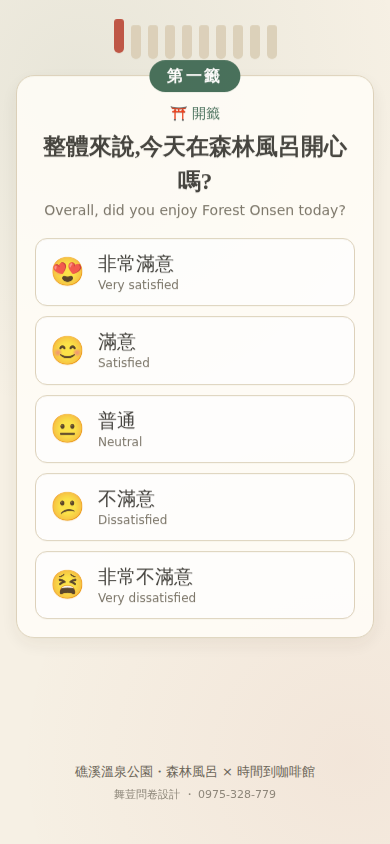
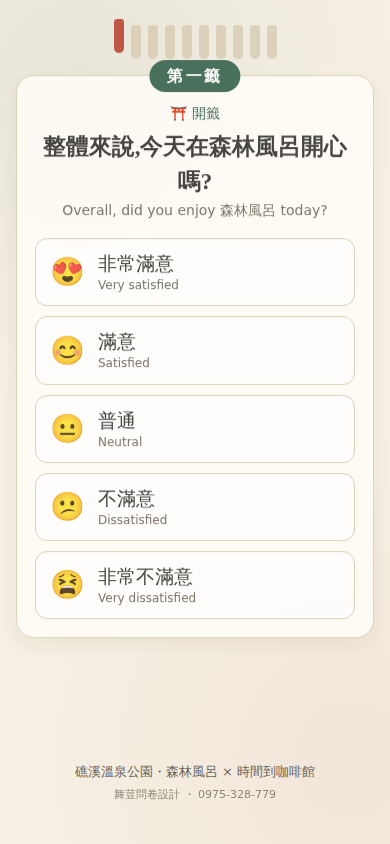
御神籤:紅色領券區只留一行英文領取說明、森林風呂不譯、美式改黑咖啡
Claude-Session: https://claude.ai/code/session_01F6yyhJXwLMGLQPqwSGyNKN

Changed region(s): [[0.1231, 0.2464, 0.8615, 0.2773]]

diff --git a/行銷/森林風呂御神籤/Index.html b/行銷/森林風呂御神籤/Index.html
@@ -157,7 +157,7 @@
   <!-- 開始 -->
   <section class="screen on" id="s-start">
     <h1>森林風呂御神籤</h1>
-    <p class="sub">泡完湯,來抽一支好運籤吧 ♨<span class="en">Forest Onsen Fortune — draw your lucky slip!</span></p>
+    <p class="sub">泡完湯,來抽一支好運籤吧 ♨<span class="en">森林風呂 Fortune — draw your lucky slip!</span></p>
     <div class="tube-box">
       <svg class="tube" id="tube" viewBox="0 0 180 230" aria-hidden="true">
         <g fill="#c9a06d" stroke="#8a6239" stroke-width="2">
@@ -202,7 +202,7 @@
       <div class="qtext" style="margin-top:14px">有什麼想跟我們說的嗎?💬<span class="en">Anything you'd like to tell us? (optional)</span></div>
       <textarea id="msg" maxlength="300" placeholder="可以不寫,直接按下面抽籤詩"></textarea>
       <div class="mail">
-        <div class="grp-label">📮 想收到森林風呂的優惠和活動消息嗎?(選填)<span class="en">Get Forest Onsen offers by email (optional)</span></div>
+        <div class="grp-label">📮 想收到森林風呂的優惠和活動消息嗎?(選填)<span class="en">Get 森林風呂 offers by email (optional)</span></div>
         <input type="email" id="email" maxlength="100" autocomplete="email" inputmode="email" placeholder="留下 email(不留也能領咖啡券)">
         <label class="agree"><input type="checkbox" id="agree"><span>我同意提供 email 收取優惠訊息(<a href="#" id="pv-toggle">個資說明</a>)</span></label>
         <div class="privacy" id="privacy" hidden>
@@ -246,7 +246,7 @@
       <div class="big">🎁 時間到咖啡館 折 30 元</div>
       <div class="coupon"><span class="no" id="cno"></span><span class="live"><span class="dot"></span><span id="clock"></span></span></div>
       <div class="big2">👉 出示此畫面到<b>【森林風呂櫃台】</b><br>索取咖啡券</div>
-      <div style="font-size:13px;opacity:.95;margin-top:4px">Show this screen at the Forest Onsen counter<br>to get your NT$30 Time Café coupon</div>
+      <div style="font-size:13px;opacity:.95;margin-top:2px">Show this screen at the counter to get your coupon</div>
     </div>
     <div class="rules">限公園一館使用・每次限用 1 張・每人每天 1 次・不兌現不找零<br>One coupon per visit · One per person per day · No cash value</div>
   </section>
@@ -342,7 +342,7 @@
     { n: "第五番", l: "泡湯吉", le: "Hot Spring Blessing", w: 1, p: "竹林風過湯煙起<br>煩惱隨水悄悄離",
       k: "會是一段愉快的旅程", ke: "It will be a delightful journey.",
       wish: "放下煩惱,願望自來", health: "筋骨舒暢", travel: "大吉,處處是好風景",
-      drink: "冰美式", de: "Iced Americano", act: "泡完湯,到咖啡館喝杯涼的" },
+      drink: "冰黑咖啡", de: "Iced Black Coffee", act: "泡完湯,到咖啡館喝杯涼的" },
     { n: "第六番", l: "森林吉", le: "Forest Blessing", w: 1, p: "綠蔭深處聞鳥語<br>心靜自然見光明",
       k: "善意的存在,是路徑的發展", ke: "Kindness shapes the path ahead.",
       wish: "耐心等待,時機將至", health: "多走走,身心舒暢", travel: "在公園散散步,會有小驚喜",
@@ -350,7 +350,7 @@
     { n: "第七番", l: "福吉", le: "Blessing of Fortune", w: 1, p: "靜水深流藏智慧<br>細細思量見花開",
       k: "靜下心來好好思考,定有成果", ke: "Calm your mind and think it through — success will come.",
       wish: "想清楚再出發,必有收穫", health: "早睡早起", travel: "計畫好再出門",
-      drink: "熱美式", de: "Hot Americano", act: "找個安靜角落,喝杯咖啡想一想" },
+      drink: "熱黑咖啡", de: "Hot Black Coffee", act: "找個安靜角落,喝杯咖啡想一想" },
     { n: "第八番", l: "光明吉", le: "Bright Blessing", w: 1, p: "心若坦蕩天自晴<br>一路光明照前程",
       k: "保持一顆坦率的心,是邁向光明人生的起點", ke: "An honest heart is the first step to a bright life.",
       wish: "真心相待,自有回應", health: "心情開朗,身體輕鬆", travel: "一路晴朗,放心出發",
@@ -384,7 +384,7 @@
     "今天的溫泉水,泡起來怎麼樣?": "How was the hot spring water today?",
     "湯區環境乾淨嗎?": "Was the bathing area clean?",
     "你從哪裡來?": "Where are you from?",
-    "整體來說,今天在森林風呂開心嗎?": "Overall, did you enjoy Forest Onsen today?",
+    "整體來說,今天在森林風呂開心嗎?": "Overall, did you enjoy 森林風呂 today?",
     "公園的風景,看起來舒服嗎?": "How do you like the park scenery?",
     "公園走道、草地乾不乾淨?": "Were the park paths and lawns clean?",
     "公園的廁所(含泡腳池旁)乾淨嗎?": "Were the park restrooms clean?",
@@ -398,7 +398,7 @@
     "園區店家的服務怎麼樣?": "How was the service at shops in the park?",
     "停車方便嗎?": "Was parking convenient?",
     "停車場好不好找?": "Was the parking lot easy to find?",
-    "會推薦朋友來森林風呂嗎?": "Would you recommend Forest Onsen to friends?",
+    "會推薦朋友來森林風呂嗎?": "Would you recommend 森林風呂 to friends?",
     "礁溪溫泉公園的經營,有讓宜蘭觀光更好嗎?": "Does the park make Yilan tourism better?",
     "有幫宜蘭的觀光形象加分嗎?": "Does it improve Yilan's tourism image?",
     "園區有呈現宜蘭在地特色(在地食材、文化設計、自然風格)嗎?": "Does the park show local Yilan features?",
@@ -409,11 +409,11 @@
     "與佛光大學合作的在地創生商品,你覺得如何?": "How are the local products made with Fo Guang University?",
     "這趟在宜蘭住幾晚?": "How many nights are you staying in Yilan?",
     "今天跟誰一起來?": "Who did you come with today?",
-    "怎麼知道森林風呂的?": "How did you hear about Forest Onsen?",
+    "怎麼知道森林風呂的?": "How did you hear about 森林風呂?",
     "這趟還會去宜蘭哪裡?(選最主要的)": "Where else in Yilan are you going?",
     "泡湯的時候,腦袋在想什麼?": "What's on your mind while soaking?",
     "泡完湯,最想來一杯什麼?": "What would you like to drink after the bath?",
-    "如果森林風呂是一種動物,牠是?": "If Forest Onsen were an animal, it'd be…",
+    "如果森林風呂是一種動物,牠是?": "If 森林風呂 were an animal, it'd be…",
     "非常滿意": "Very satisfied", "滿意": "Satisfied", "普通": "Neutral", "不滿意": "Dissatisfied", "非常不滿意": "Very dissatisfied",
     "今天沒需要幫忙": "Didn't need help", "今天沒開車": "Didn't drive", "不清楚/沒注意": "Not sure",
     "一定會": "Definitely", "應該會": "Probably", "還不確定": "Not sure yet", "應該不會": "Probably not",
